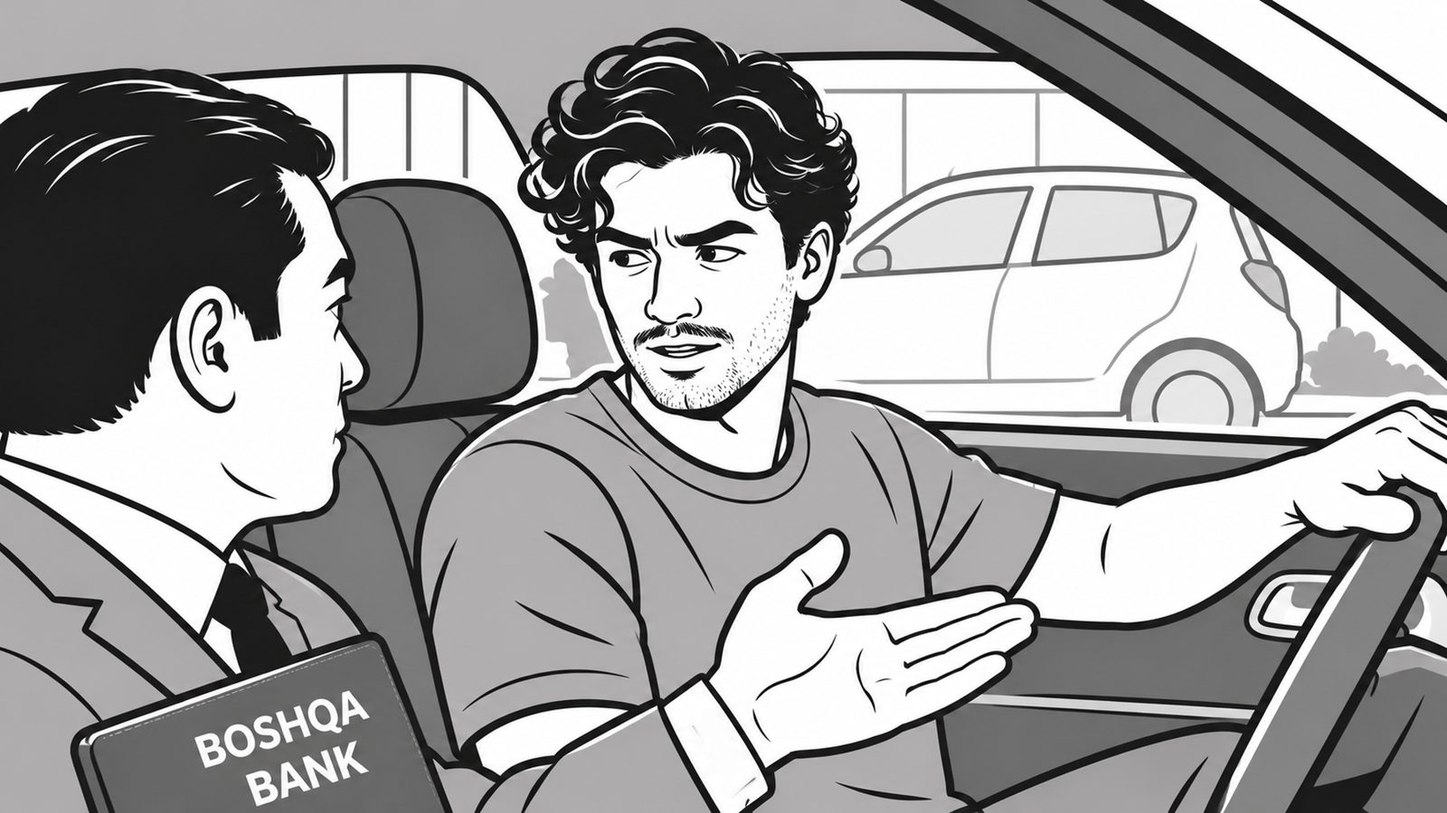
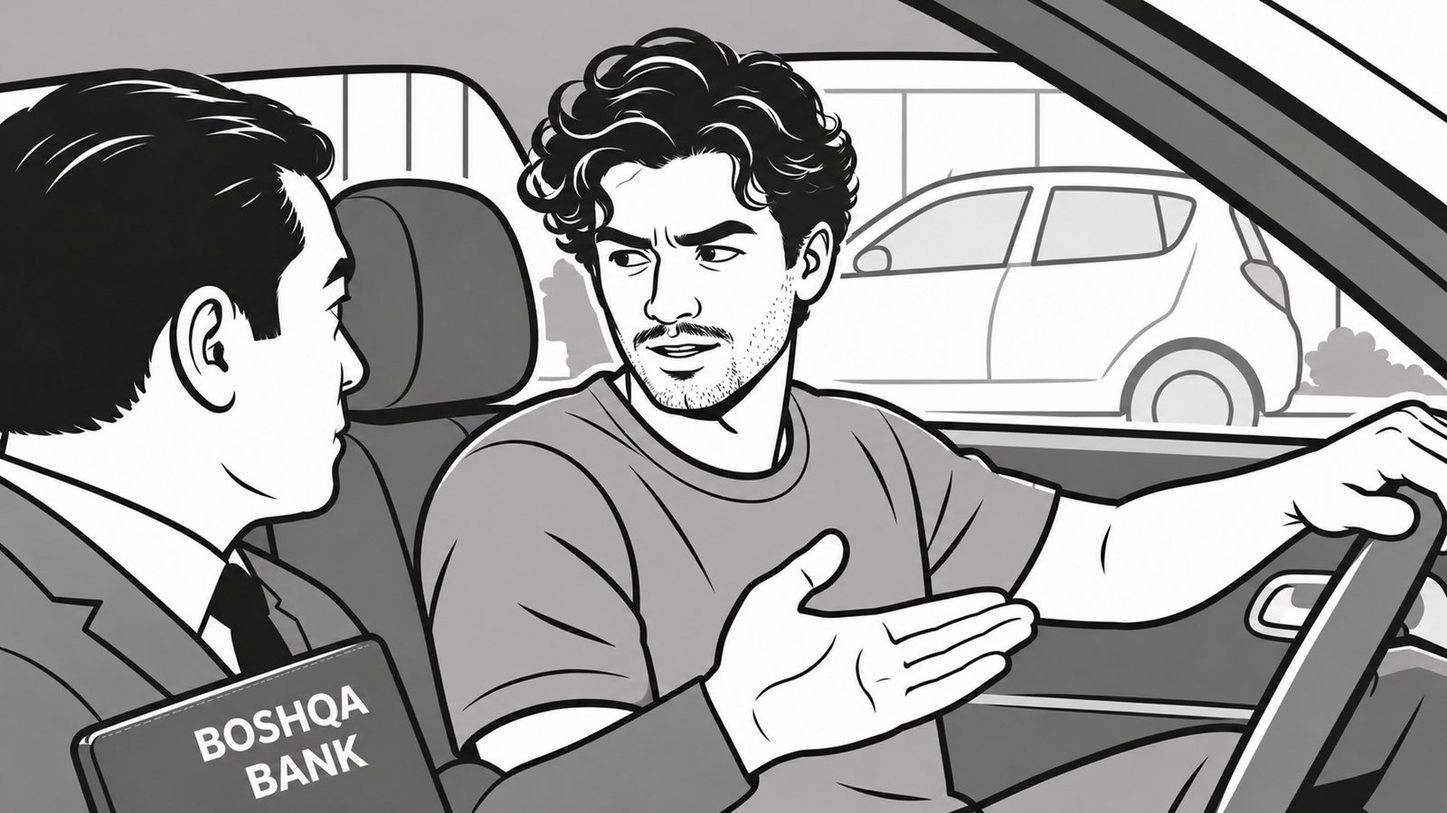
FCB-Agrobank: regen round 2 (Boshqa bank photos, cover still, notification, curtain)
Claude-Session: https://claude.ai/code/session_01XP5vXjE9khJrmSZP6JwDdh

diff --git a/FCB-Agrobank/index.html b/FCB-Agrobank/index.html
@@ -71,7 +71,7 @@ for(var j=0;j<D.length;j++){var d=D[j];if(d.s){d.t--;if(d.t<0){d.v=Math.min(d.v+
 var g=x.createRadialGradient(d.x-d.r*.3,d.y-d.r*.3,0,d.x,d.y,d.r);g.addColorStop(0,'rgba(255,255,255,.55)');g.addColorStop(.6,'rgba(200,215,225,.18)');g.addColorStop(1,'rgba(255,255,255,.05)');x.fillStyle=g;x.beginPath();x.ellipse(d.x,d.y,d.r*.85,d.r,0,0,6.3);x.fill();
 if(d.y>H+20)D[j]=nd(true)}
 requestAnimationFrame(f)}f();
-</script></body></html>"></iframe><div style="position:absolute;left:0;top:0;width:1920px;height:1080px;background:linear-gradient(90deg, rgba(6,18,14,0.62) 0%, rgba(6,18,14,0.3) 34%, rgba(6,18,14,0) 55%)"></div><img src="assets/logo_white.png" alt="Agrobank" style="position:absolute;left:96px;top:88px;width:248px;height:48px;object-fit:contain"><h1 style="position:absolute;left:96px;top:640px;width:900px;font-family:'Agrofont Expanded', Verdana, sans-serif;font-size:112px;font-weight:700;line-height:1.02;color:#FFFFFF;text-align:left">Ипотека<br>Agrobank</h1><p style="position:absolute;left:96px;top:900px;width:900px;font-family:'Agrofont Bold', Verdana, sans-serif;font-size:32px;line-height:1.45;color:#E9F2EE">Режиссёрские заметки Дамира Мубинова</p>
+</script></body></html>"></iframe><div style="position:absolute;left:0;top:0;width:1920px;height:1080px;background:linear-gradient(90deg, rgba(6,18,14,0.62) 0%, rgba(6,18,14,0.3) 34%, rgba(6,18,14,0) 55%)"></div><img src="assets/logo_white.png" alt="Agrobank" style="position:absolute;left:96px;top:88px;width:248px;height:48px;object-fit:contain"><h1 style="position:absolute;left:96px;top:640px;width:900px;font-family:'Agrofont Expanded', Verdana, sans-serif;font-size:112px;font-weight:700;line-height:1.02;color:#FFFFFF;text-align:left">Ипотека<br>Agrobank</h1><p style="position:absolute;left:96px;top:900px;width:900px;font-family:'Agrofont Bold', Verdana, sans-serif;font-size:32px;line-height:1.45;color:#E9F2EE">Режиссёрские заметки Дамира Мубинова</p><div style="position:absolute;left:1264px;top:88px;width:560px;background:#FFF09A;border-left:6px solid #D9B400;border-radius:12px;padding:16px 22px;box-shadow:0 12px 32px rgba(18,33,26,0.10)"><p style="font-family:'Agrofont Bold', Verdana, sans-serif;font-size:24px;line-height:1.3;color:#7A5600">Правка · на подтверждении</p><p style="font-family:'Agrofont', Verdana, sans-serif;font-size:24px;line-height:1.4;color:#3A2C00">Кадр обложки обновлён: на папке Boshqa bank. Видео обложки ещё старое, нужно переоживить.</p></div>
 
 </section>
 <section id="intro" data-transition="fade" style="background:#FBFBF8;color:#12211A;font-family:'Agrofont', Verdana, sans-serif;display:flex;flex-direction:column;padding:96px">
@@ -79,11 +79,11 @@ requestAnimationFrame(f)}f();
 
 </section>
 <section id="approach" data-transition="fade" style="background:#FBFBF8;color:#12211A;font-family:'Agrofont', Verdana, sans-serif;display:flex;flex-direction:column;padding:96px">
-<p style="position:absolute;left:96px;top:128px;width:600px;font-family:'Agrofont Bold', Verdana, sans-serif;font-size:24px;letter-spacing:2px;text-transform:uppercase;color:#00803F">Подход</p><h2 style="position:absolute;left:96px;top:176px;width:640px;font-family:'Agrofont Expanded', Verdana, sans-serif;font-size:56px;font-weight:700;line-height:1.1;color:#12211A;text-align:left">Антагонист всегда за кадром</h2><p style="position:absolute;left:96px;top:400px;width:600px;font-family:'Agrofont', Verdana, sans-serif;font-size:28px;line-height:1.45;color:#12211A">Чтобы юмор работал, мы всегда прячем антагониста за кадром: так его появление становится отдельным действием.</p><p style="position:absolute;left:96px;top:580px;width:600px;font-family:'Agrofont', Verdana, sans-serif;font-size:28px;line-height:1.45;color:#3D4A44">Камера — наш главный помощник. В начале сцены антагонист всегда за кадром, но камера спешит его открыть.</p><img src="assets/r1_03_xira_appears.jpg" alt="Кадр завтрака: герой справа, Хира слева" style="position:absolute;left:800px;top:270px;width:1024px;height:576px;object-fit:cover;border-radius:14px;box-shadow:0 24px 64px rgba(18,33,26,0.14)"><div data-build-in="fade 1" style="position:absolute;left:1288px;top:382px;width:464px;height:261px;border:4px solid #FFFFFF;box-shadow:0 0 24px rgba(0,0,0,0.35)"></div><p data-build-in="fade 1" style="position:absolute;left:1300px;top:394px;width:48px;font-family:'Agrofont Bold', Verdana, sans-serif;font-size:24px;line-height:1.5;text-align:center;color:#12211A;background:#FFFFFF;border-radius:6px">1</p><div data-build-in="fade 2" style="position:absolute;left:840px;top:288px;width:960px;height:540px;border:4px solid #00CD69;box-shadow:0 0 24px rgba(0,0,0,0.35)"></div><p data-build-in="fade 2" style="position:absolute;left:852px;top:300px;width:48px;font-family:'Agrofont Bold', Verdana, sans-serif;font-size:24px;line-height:1.5;text-align:center;color:#12211A;background:#00CD69;border-radius:6px">2</p><svg class="xc" viewBox="0 0 1920 1080" style="position:absolute;left:0;top:0;width:1920px;height:1080px;pointer-events:none" data-build-in="fade 2"><defs><marker id="ah1" markerWidth="4" markerHeight="4" refX="2.2" refY="2" orient="auto"><path d="M0,0 L4,2 L0,4 Z" fill="#00CD69"/></marker></defs><line x1="1280" y1="377" x2="1124" y2="344" stroke="#00CD69" stroke-width="6" stroke-linecap="round" marker-end="url(#ah1)"/></svg><p style="position:absolute;left:800px;top:870px;width:1024px;font-family:'Agrofont', Verdana, sans-serif;font-size:24px;line-height:1.45;color:#6B7570">1 — сцена начинается на герое. 2 — камера открывает общий план, а там уже Хира.</p>
+<p style="position:absolute;left:96px;top:128px;width:600px;font-family:'Agrofont Bold', Verdana, sans-serif;font-size:24px;letter-spacing:2px;text-transform:uppercase;color:#00803F">Подход</p><h2 style="position:absolute;left:96px;top:176px;width:640px;font-family:'Agrofont Expanded', Verdana, sans-serif;font-size:56px;font-weight:700;line-height:1.1;color:#12211A;text-align:left">Антагонист всегда за кадром</h2><p style="position:absolute;left:96px;top:400px;width:600px;font-family:'Agrofont', Verdana, sans-serif;font-size:28px;line-height:1.45;color:#12211A">Чтобы юмор работал, мы всегда прячем антагониста за кадром: так его появление становится отдельным действием.</p><p style="position:absolute;left:96px;top:580px;width:600px;font-family:'Agrofont', Verdana, sans-serif;font-size:28px;line-height:1.45;color:#3D4A44">Камера — наш главный помощник. В начале сцены антагонист всегда за кадром, но камера спешит его открыть.</p><img src="assets/r1_03_xira_appears.jpg" alt="Кадр завтрака: герой справа, Хира слева" style="position:absolute;left:800px;top:270px;width:1024px;height:576px;object-fit:cover;border-radius:14px;box-shadow:0 24px 64px rgba(18,33,26,0.14)"><div data-build-in="fade 1" style="position:absolute;left:1288px;top:382px;width:464px;height:261px;border:4px solid #FFFFFF;box-shadow:0 0 24px rgba(0,0,0,0.35)"></div><p data-build-in="fade 1" style="position:absolute;left:1300px;top:394px;width:48px;font-family:'Agrofont Bold', Verdana, sans-serif;font-size:24px;line-height:1.5;text-align:center;color:#12211A;background:#FFFFFF;border-radius:6px">1</p><div data-build-in="fade 2" style="position:absolute;left:840px;top:288px;width:960px;height:540px;border:4px solid #00CD69;box-shadow:0 0 24px rgba(0,0,0,0.35)"></div><p data-build-in="fade 2" style="position:absolute;left:852px;top:300px;width:48px;font-family:'Agrofont Bold', Verdana, sans-serif;font-size:24px;line-height:1.5;text-align:center;color:#12211A;background:#00CD69;border-radius:6px">2</p><svg class="xc" viewBox="0 0 1920 1080" style="position:absolute;left:0;top:0;width:1920px;height:1080px;pointer-events:none" data-build-in="fade 2"><defs><marker id="ah1" markerWidth="4" markerHeight="4" refX="2.2" refY="2" orient="auto"><path d="M0,0 L4,2 L0,4 Z" fill="#00CD69"/></marker></defs><line x1="1280" y1="377" x2="1124" y2="344" stroke="#00CD69" stroke-width="6" stroke-linecap="round" marker-end="url(#ah1)"/></svg><p style="position:absolute;left:800px;top:870px;width:1024px;font-family:'Agrofont', Verdana, sans-serif;font-size:24px;line-height:1.45;color:#6B7570">1 — сцена начинается на герое. 2 — камера открывает общий план, а там уже Хира.</p><div style="position:absolute;left:1264px;top:60px;width:560px;background:#FFF09A;border-left:6px solid #D9B400;border-radius:12px;padding:16px 22px;box-shadow:0 12px 32px rgba(18,33,26,0.10)"><p style="font-family:'Agrofont Bold', Verdana, sans-serif;font-size:24px;line-height:1.3;color:#7A5600">Правка · на подтверждении</p><p style="font-family:'Agrofont', Verdana, sans-serif;font-size:24px;line-height:1.4;color:#3A2C00">Кадр обновлён: на папке Boshqa bank, манжета чистая.</p></div>
 
 </section>
 <section id="humor" data-transition="fade" style="background:#FBFBF8;color:#12211A;font-family:'Agrofont', Verdana, sans-serif;display:flex;flex-direction:column;padding:96px">
-<p style="position:absolute;left:96px;top:112px;width:600px;font-family:'Agrofont Bold', Verdana, sans-serif;font-size:24px;letter-spacing:2px;text-transform:uppercase;color:#00803F">Юмор</p><h2 style="position:absolute;left:96px;top:160px;width:1400px;font-family:'Agrofont Expanded', Verdana, sans-serif;font-size:56px;font-weight:700;line-height:1.1;color:#12211A;text-align:left">Нарастание</h2><p style="position:absolute;left:96px;top:268px;width:760px;font-family:'Agrofont', Verdana, sans-serif;font-size:28px;line-height:1.45;color:#12211A">Чтобы юмор работал, ситуации лучше выстроить по нарастанию. Нарастать может наглость и настойчивость антагониста, неуместность ситуаций, где он появляется, и сами способы появления.</p><p data-build-in="fade 1" style="position:absolute;left:992px;top:268px;width:832px;font-family:'Agrofont', Verdana, sans-serif;font-size:28px;line-height:1.45;color:#3D4A44">Например, в первом ролике он сначала приходит вместе с СМС, потом сидит в машине (занял личное пространство), потом мешает смотреть футбол (занял время отдыха). Нам важно сохранить нарастание, чтобы ролик работал.</p><img data-build-in="rise 2" src="assets/r1_03_xira_appears.jpg" alt="Завтрак: первое появление Хиры" style="position:absolute;left:96px;top:695px;width:400px;height:225px;object-fit:cover;border-radius:14px;box-shadow:0 24px 64px rgba(18,33,26,0.14)"><img data-build-in="rise 3" src="assets/r1_06_through_windshield.jpg" alt="Машина: Хира занял личное пространство" style="position:absolute;left:528px;top:627px;width:520px;height:293px;object-fit:cover;border-radius:14px;box-shadow:0 24px 64px rgba(18,33,26,0.14)"><img data-build-in="rise 4" src="assets/r1_13_xira_shoulder_two_shot.jpg" alt="Футбол: Хира мешает отдыхать" style="position:absolute;left:1080px;top:537px;width:680px;height:383px;object-fit:cover;border-radius:14px;box-shadow:0 24px 64px rgba(18,33,26,0.14)"><p data-build-in="fade 2" style="position:absolute;left:96px;top:940px;width:400px;font-family:'Agrofont Bold', Verdana, sans-serif;font-size:24px;line-height:1.35;color:#12211A">Завтрак<br><span style="color:#6B7570">первое появление</span></p><p data-build-in="fade 3" style="position:absolute;left:528px;top:940px;width:520px;font-family:'Agrofont Bold', Verdana, sans-serif;font-size:24px;line-height:1.35;color:#12211A">Машина<br><span style="color:#6B7570">личное пространство</span></p><p data-build-in="fade 4" style="position:absolute;left:1080px;top:940px;width:680px;font-family:'Agrofont Bold', Verdana, sans-serif;font-size:24px;line-height:1.35;color:#12211A">Футбол<br><span style="color:#6B7570">право на отдых</span></p>
+<p style="position:absolute;left:96px;top:112px;width:600px;font-family:'Agrofont Bold', Verdana, sans-serif;font-size:24px;letter-spacing:2px;text-transform:uppercase;color:#00803F">Юмор</p><h2 style="position:absolute;left:96px;top:160px;width:1400px;font-family:'Agrofont Expanded', Verdana, sans-serif;font-size:56px;font-weight:700;line-height:1.1;color:#12211A;text-align:left">Нарастание</h2><p style="position:absolute;left:96px;top:268px;width:760px;font-family:'Agrofont', Verdana, sans-serif;font-size:28px;line-height:1.45;color:#12211A">Чтобы юмор работал, ситуации лучше выстроить по нарастанию. Нарастать может наглость и настойчивость антагониста, неуместность ситуаций, где он появляется, и сами способы появления.</p><p data-build-in="fade 1" style="position:absolute;left:992px;top:268px;width:832px;font-family:'Agrofont', Verdana, sans-serif;font-size:28px;line-height:1.45;color:#3D4A44">Например, в первом ролике он сначала приходит вместе с СМС, потом сидит в машине (занял личное пространство), потом мешает смотреть футбол (занял время отдыха). Нам важно сохранить нарастание, чтобы ролик работал.</p><img data-build-in="rise 2" src="assets/r1_03_xira_appears.jpg" alt="Завтрак: первое появление Хиры" style="position:absolute;left:96px;top:695px;width:400px;height:225px;object-fit:cover;border-radius:14px;box-shadow:0 24px 64px rgba(18,33,26,0.14)"><img data-build-in="rise 3" src="assets/r1_06_through_windshield.jpg" alt="Машина: Хира занял личное пространство" style="position:absolute;left:528px;top:627px;width:520px;height:293px;object-fit:cover;border-radius:14px;box-shadow:0 24px 64px rgba(18,33,26,0.14)"><img data-build-in="rise 4" src="assets/r1_13_xira_from_sofa.jpg" alt="Футбол: Хира вылез из дивана" style="position:absolute;left:1080px;top:537px;width:680px;height:383px;object-fit:cover;border-radius:14px;box-shadow:0 24px 64px rgba(18,33,26,0.14)"><p data-build-in="fade 2" style="position:absolute;left:96px;top:940px;width:400px;font-family:'Agrofont Bold', Verdana, sans-serif;font-size:24px;line-height:1.35;color:#12211A">Завтрак<br><span style="color:#6B7570">первое появление</span></p><p data-build-in="fade 3" style="position:absolute;left:528px;top:940px;width:520px;font-family:'Agrofont Bold', Verdana, sans-serif;font-size:24px;line-height:1.35;color:#12211A">Машина<br><span style="color:#6B7570">личное пространство</span></p><p data-build-in="fade 4" style="position:absolute;left:1080px;top:940px;width:680px;font-family:'Agrofont Bold', Verdana, sans-serif;font-size:24px;line-height:1.35;color:#12211A">Футбол<br><span style="color:#6B7570">право на отдых</span></p><div style="position:absolute;left:1264px;top:40px;width:560px;background:#FFF09A;border-left:6px solid #D9B400;border-radius:12px;padding:16px 22px;box-shadow:0 12px 32px rgba(18,33,26,0.10)"><p style="font-family:'Agrofont Bold', Verdana, sans-serif;font-size:24px;line-height:1.3;color:#7A5600">Правка · на подтверждении</p><p style="font-family:'Agrofont', Verdana, sans-serif;font-size:24px;line-height:1.4;color:#3A2C00">Кадры обновлены: Boshqa bank, на футболе Хира из дивана.</p></div>
 
 </section>
 <section id="t-animatic" data-transition="push" style="background:#00A050;color:#12211A;font-family:'Agrofont', Verdana, sans-serif;display:flex;flex-direction:column;padding:96px">
@@ -111,11 +111,11 @@ requestAnimationFrame(f)}f();
 
 </section>
 <section id="r1-s1" data-transition="fade" style="background:#FBFBF8;color:#12211A;font-family:'Agrofont', Verdana, sans-serif;display:flex;flex-direction:column;padding:96px">
-<p style="position:absolute;left:96px;top:96px;width:1200px;font-family:'Agrofont Bold', Verdana, sans-serif;font-size:24px;letter-spacing:2px;text-transform:uppercase;color:#00803F">Ролик 1 · Xira · Сцена 1</p><h2 style="position:absolute;left:96px;top:136px;width:1500px;font-family:'Agrofont Expanded', Verdana, sans-serif;font-size:52px;font-weight:700;line-height:1.1;color:#12211A;text-align:left">Завтрак</h2><img data-build-in="fade" src="assets/r1s_01_breakfast_simple.jpg" alt="Герой тянется вилкой к яичнице" style="position:absolute;left:96px;top:248px;width:852px;height:479px;object-fit:cover;border-radius:14px;border:1px solid #DDE3DF"><img data-build-in="fade" src="assets/r1s_02_phone_notification_simple.jpg" alt="Телефон: уведомление об оплате кредита" style="position:absolute;left:972px;top:248px;width:852px;height:479px;object-fit:cover;border-radius:14px;border:1px solid #DDE3DF"><p data-build-in="fade" style="position:absolute;left:96px;top:776px;width:760px;font-family:'Agrofont', Verdana, sans-serif;font-size:28px;line-height:1.45;color:#12211A">Герой завтракает, он ещё в хорошем настроении. Только он тянется вилкой к завтраку, как случается первый облом: пришло СМС об оплате кредита.</p><p data-build-in="fade" style="position:absolute;left:972px;top:776px;width:852px;font-family:'Agrofont Bold', Verdana, sans-serif;font-size:28px;line-height:1.45;color:#12211A"><span style="color:#00803F">На экране</span><br>Ipoteka to‘lovi vaqti keldi<br><span style="color:#6B7570">текст уведомления по брифу</span></p>
+<p style="position:absolute;left:96px;top:96px;width:1200px;font-family:'Agrofont Bold', Verdana, sans-serif;font-size:24px;letter-spacing:2px;text-transform:uppercase;color:#00803F">Ролик 1 · Xira · Сцена 1</p><h2 style="position:absolute;left:96px;top:136px;width:1500px;font-family:'Agrofont Expanded', Verdana, sans-serif;font-size:52px;font-weight:700;line-height:1.1;color:#12211A;text-align:left">Завтрак</h2><img data-build-in="fade" src="assets/r1s_01_breakfast_simple.jpg" alt="Герой тянется вилкой к яичнице" style="position:absolute;left:96px;top:248px;width:852px;height:479px;object-fit:cover;border-radius:14px;border:1px solid #DDE3DF"><img data-build-in="fade" src="assets/r1s_02_phone_notification_simple.jpg" alt="Телефон: уведомление об оплате кредита" style="position:absolute;left:972px;top:248px;width:852px;height:479px;object-fit:cover;border-radius:14px;border:1px solid #DDE3DF"><p data-build-in="fade" style="position:absolute;left:96px;top:776px;width:760px;font-family:'Agrofont', Verdana, sans-serif;font-size:28px;line-height:1.45;color:#12211A">Герой завтракает, он ещё в хорошем настроении. Только он тянется вилкой к завтраку, как случается первый облом: пришло СМС об оплате кредита.</p><p data-build-in="fade" style="position:absolute;left:972px;top:776px;width:852px;font-family:'Agrofont Bold', Verdana, sans-serif;font-size:28px;line-height:1.45;color:#12211A"><span style="color:#00803F">На экране</span><br>Ipoteka to‘lovi vaqti keldi<br><span style="color:#6B7570">текст уведомления по брифу</span></p><div style="position:absolute;left:1264px;top:72px;width:560px;background:#FFF09A;border-left:6px solid #D9B400;border-radius:12px;padding:16px 22px;box-shadow:0 12px 32px rgba(18,33,26,0.10)"><p style="font-family:'Agrofont Bold', Verdana, sans-serif;font-size:24px;line-height:1.3;color:#7A5600">Правка · на подтверждении</p><p style="font-family:'Agrofont', Verdana, sans-serif;font-size:24px;line-height:1.4;color:#3A2C00">Кадр обновлён: уведомление на узбекском.</p></div>
 
 </section>
 <section id="r1-s1b" data-transition="fade" style="background:#FBFBF8;color:#12211A;font-family:'Agrofont', Verdana, sans-serif;display:flex;flex-direction:column;padding:96px">
-<p style="position:absolute;left:96px;top:96px;width:1200px;font-family:'Agrofont Bold', Verdana, sans-serif;font-size:24px;letter-spacing:2px;text-transform:uppercase;color:#00803F">Ролик 1 · Xira · Сцена 1</p><h2 style="position:absolute;left:96px;top:136px;width:1500px;font-family:'Agrofont Expanded', Verdana, sans-serif;font-size:52px;font-weight:700;line-height:1.1;color:#12211A;text-align:left">Отражение</h2><img data-build-in="fade" src="assets/r1s_02b_phone_reflection_simple.jpg" alt="Уведомление на телефоне, в стекле отражается Хира" style="position:absolute;left:704px;top:248px;width:1120px;height:630px;object-fit:cover;border-radius:14px;border:1px solid #DDE3DF"><p data-build-in="fade" style="position:absolute;left:96px;top:280px;width:560px;font-family:'Agrofont', Verdana, sans-serif;font-size:28px;line-height:1.45;color:#12211A;background:#FFF09A;box-shadow:0 0 0 10px #FFF09A;border-radius:2px">Приходит уведомление, а в стекле телефона уже отражается Хира.</p><div style="position:absolute;left:1264px;top:72px;width:560px;background:#FFF09A;border-left:6px solid #D9B400;border-radius:12px;padding:16px 22px;box-shadow:0 12px 32px rgba(18,33,26,0.10)"><p style="font-family:'Agrofont Bold', Verdana, sans-serif;font-size:24px;line-height:1.3;color:#7A5600">Правка · на подтверждении</p><p style="font-family:'Agrofont', Verdana, sans-serif;font-size:24px;line-height:1.4;color:#3A2C00">Новый кадр: уведомление и отражение Хиры. Кадр перегенерируется.</p></div>
+<p style="position:absolute;left:96px;top:96px;width:1200px;font-family:'Agrofont Bold', Verdana, sans-serif;font-size:24px;letter-spacing:2px;text-transform:uppercase;color:#00803F">Ролик 1 · Xira · Сцена 1</p><h2 style="position:absolute;left:96px;top:136px;width:1500px;font-family:'Agrofont Expanded', Verdana, sans-serif;font-size:52px;font-weight:700;line-height:1.1;color:#12211A;text-align:left">Отражение</h2><img data-build-in="fade" src="assets/r1s_02b_phone_reflection_simple.jpg" alt="Уведомление на телефоне, в стекле отражается Хира" style="position:absolute;left:704px;top:248px;width:1120px;height:630px;object-fit:cover;border-radius:14px;border:1px solid #DDE3DF"><p data-build-in="fade" style="position:absolute;left:96px;top:280px;width:560px;font-family:'Agrofont', Verdana, sans-serif;font-size:28px;line-height:1.45;color:#12211A;background:#FFF09A;box-shadow:0 0 0 10px #FFF09A;border-radius:2px">Приходит уведомление, а в стекле телефона уже отражается Хира.</p><div style="position:absolute;left:1264px;top:72px;width:560px;background:#FFF09A;border-left:6px solid #D9B400;border-radius:12px;padding:16px 22px;box-shadow:0 12px 32px rgba(18,33,26,0.10)"><p style="font-family:'Agrofont Bold', Verdana, sans-serif;font-size:24px;line-height:1.3;color:#7A5600">Правка · на подтверждении</p><p style="font-family:'Agrofont', Verdana, sans-serif;font-size:24px;line-height:1.4;color:#3A2C00">Новый кадр: уведомление и отражение Хиры.</p></div>
 
 </section>
 <section id="r1-s2" data-transition="fade" style="background:#FBFBF8;color:#12211A;font-family:'Agrofont', Verdana, sans-serif;display:flex;flex-direction:column;padding:96px">
@@ -231,7 +231,7 @@ requestAnimationFrame(f)}f();
 
 </section>
 <section id="ch-xira" data-transition="fade" style="background:#FBFBF8;color:#12211A;font-family:'Agrofont', Verdana, sans-serif;display:flex;flex-direction:column;padding:96px">
-<img src="assets/p_bank.jpg" alt="Хира: мужчина в полосатом костюме с папкой BANK протягивает ладонь" style="position:absolute;left:96px;top:96px;width:712px;height:888px;object-fit:cover;border-radius:14px;box-shadow:0 24px 64px rgba(18,33,26,0.14);object-position:50% 20%"><p style="position:absolute;left:904px;top:240px;width:880px;font-family:'Agrofont Bold', Verdana, sans-serif;font-size:24px;letter-spacing:2px;text-transform:uppercase;color:#00803F">Ролик 1 · антагонист</p><h2 style="position:absolute;left:904px;top:288px;width:880px;font-family:'Agrofont Expanded', Verdana, sans-serif;font-size:72px;font-weight:700;line-height:1.1;color:#12211A;text-align:left">Хира</h2><p style="position:absolute;left:904px;top:430px;width:720px;font-family:'Agrofont', Verdana, sans-serif;font-size:28px;line-height:1.45;color:#12211A">Антигерой, воплощённый в безэмоциональном холоде.</p><p data-build-in="fade" style="position:absolute;left:904px;top:540px;width:720px;font-family:'Agrofont', Verdana, sans-serif;font-size:28px;line-height:1.45;color:#3D4A44">Он как бы говорит, что другие банки никогда не сочувствуют людям и не входят в их положение. Они бесцеремонно присутствуют в каждом моменте, как и мысли об ипотеке, которые ты носишь с собой.</p>
+<img src="assets/p_bank.jpg" alt="Хира: мужчина в полосатом костюме с папкой Boshqa bank протягивает ладонь" style="position:absolute;left:96px;top:96px;width:712px;height:888px;object-fit:cover;border-radius:14px;box-shadow:0 24px 64px rgba(18,33,26,0.14);object-position:50% 20%"><p style="position:absolute;left:904px;top:240px;width:880px;font-family:'Agrofont Bold', Verdana, sans-serif;font-size:24px;letter-spacing:2px;text-transform:uppercase;color:#00803F">Ролик 1 · антагонист</p><h2 style="position:absolute;left:904px;top:288px;width:880px;font-family:'Agrofont Expanded', Verdana, sans-serif;font-size:72px;font-weight:700;line-height:1.1;color:#12211A;text-align:left">Хира</h2><p style="position:absolute;left:904px;top:430px;width:720px;font-family:'Agrofont', Verdana, sans-serif;font-size:28px;line-height:1.45;color:#12211A">Антигерой, воплощённый в безэмоциональном холоде.</p><p data-build-in="fade" style="position:absolute;left:904px;top:540px;width:720px;font-family:'Agrofont', Verdana, sans-serif;font-size:28px;line-height:1.45;color:#3D4A44">Он как бы говорит, что другие банки никогда не сочувствуют людям и не входят в их положение. Они бесцеремонно присутствуют в каждом моменте, как и мысли об ипотеке, которые ты носишь с собой.</p><div style="position:absolute;left:904px;top:760px;width:720px;background:#FFF09A;border-left:6px solid #D9B400;border-radius:12px;padding:16px 22px;box-shadow:0 12px 32px rgba(18,33,26,0.10)"><p style="font-family:'Agrofont Bold', Verdana, sans-serif;font-size:24px;line-height:1.3;color:#7A5600">Правка · на подтверждении</p><p style="font-family:'Agrofont', Verdana, sans-serif;font-size:24px;line-height:1.4;color:#3A2C00">Фото обновлено: на папке Boshqa bank, манжета чистая.</p></div>
 
 </section>
 <section id="ch-landlord" data-transition="fade" style="background:#FBFBF8;color:#12211A;font-family:'Agrofont', Verdana, sans-serif;display:flex;flex-direction:column;padding:96px">
@@ -247,7 +247,7 @@ requestAnimationFrame(f)}f();
 
 </section>
 <section id="wr-landlord" data-transition="fade" style="background:#FBFBF8;color:#12211A;font-family:'Agrofont', Verdana, sans-serif;display:flex;flex-direction:column;padding:96px">
-<p style="position:absolute;left:96px;top:96px;width:1200px;font-family:'Agrofont Bold', Verdana, sans-serif;font-size:24px;letter-spacing:2px;text-transform:uppercase;color:#00803F">Одежда · хозяин дома</p><h2 style="position:absolute;left:96px;top:136px;width:1500px;font-family:'Agrofont Expanded', Verdana, sans-serif;font-size:52px;font-weight:700;line-height:1.1;color:#12211A;text-align:left">Ключи и книжка</h2><p style="position:absolute;left:96px;top:280px;width:560px;font-family:'Agrofont', Verdana, sans-serif;font-size:28px;line-height:1.45;color:#12211A;background:#FFF09A;box-shadow:0 0 0 10px #FFF09A;border-radius:2px">Надписей на одежде нет: хватит книжки IJARA.</p><p data-build-in="fade" style="position:absolute;left:96px;top:420px;width:560px;font-family:'Agrofont', Verdana, sans-serif;font-size:28px;line-height:1.45;color:#3D4A44">Связка ключей — знак того, что квартира у него не одна.</p><p data-build-in="fade" style="position:absolute;left:96px;top:560px;width:560px;font-family:'Agrofont', Verdana, sans-serif;font-size:28px;line-height:1.45;color:#3D4A44">В руке всегда малюсенькая записная книжка.</p><img src="assets/w_landlord_ijara.jpg" alt="Хозяин дома с книжкой IJARA" style="position:absolute;left:704px;top:248px;width:1120px;height:630px;object-fit:cover;border-radius:14px;box-shadow:0 24px 64px rgba(18,33,26,0.14);object-position:50% 45%"><div style="position:absolute;left:96px;top:700px;width:560px;background:#FFF09A;border-left:6px solid #D9B400;border-radius:12px;padding:16px 22px;box-shadow:0 12px 32px rgba(18,33,26,0.10)"><p style="font-family:'Agrofont Bold', Verdana, sans-serif;font-size:24px;line-height:1.3;color:#7A5600">Правка · на подтверждении</p><p style="font-family:'Agrofont', Verdana, sans-serif;font-size:24px;line-height:1.4;color:#3A2C00">Футболку «Uy egasi» убрал: хватит книжки IJARA.</p></div>
+<p style="position:absolute;left:96px;top:96px;width:1200px;font-family:'Agrofont Bold', Verdana, sans-serif;font-size:24px;letter-spacing:2px;text-transform:uppercase;color:#00803F">Одежда · хозяин дома</p><h2 style="position:absolute;left:96px;top:136px;width:1500px;font-family:'Agrofont Expanded', Verdana, sans-serif;font-size:52px;font-weight:700;line-height:1.1;color:#12211A;text-align:left">Ключи и книжка</h2><p style="position:absolute;left:96px;top:280px;width:560px;font-family:'Agrofont', Verdana, sans-serif;font-size:28px;line-height:1.45;color:#12211A;background:#FFF09A;box-shadow:0 0 0 10px #FFF09A;border-radius:2px">Надписей на одежде нет: хватит книжки IJARA.</p><p data-build-in="fade" style="position:absolute;left:96px;top:420px;width:560px;font-family:'Agrofont', Verdana, sans-serif;font-size:28px;line-height:1.45;color:#3D4A44">Связка ключей — знак того, что квартира у него не одна.</p><p data-build-in="fade" style="position:absolute;left:96px;top:560px;width:560px;font-family:'Agrofont', Verdana, sans-serif;font-size:28px;line-height:1.45;color:#3D4A44">В руке всегда малюсенькая записная книжка.</p><img src="assets/w_landlord_ijara.jpg" alt="Хозяин дома с книжкой IJARA" style="position:absolute;left:704px;top:248px;width:1120px;height:630px;object-fit:cover;border-radius:14px;box-shadow:0 24px 64px rgba(18,33,26,0.14);object-position:50% 45%"><div style="position:absolute;left:96px;top:700px;width:560px;background:#FFF09A;border-left:6px solid #D9B400;border-radius:12px;padding:16px 22px;box-shadow:0 12px 32px rgba(18,33,26,0.10)"><p style="font-family:'Agrofont Bold', Verdana, sans-serif;font-size:24px;line-height:1.3;color:#7A5600">Правка · на подтверждении</p><p style="font-family:'Agrofont', Verdana, sans-serif;font-size:24px;line-height:1.4;color:#3A2C00">Футболку «Uy egasi» убрал: хватит книжки IJARA. Фото обновлено: маленькая книжка, ключи.</p></div>
 
 </section>
 <section id="rahmat" data-transition="fade" style="background:#00A050;color:#12211A;font-family:'Agrofont', Verdana, sans-serif;display:flex;flex-direction:column;padding:96px">
